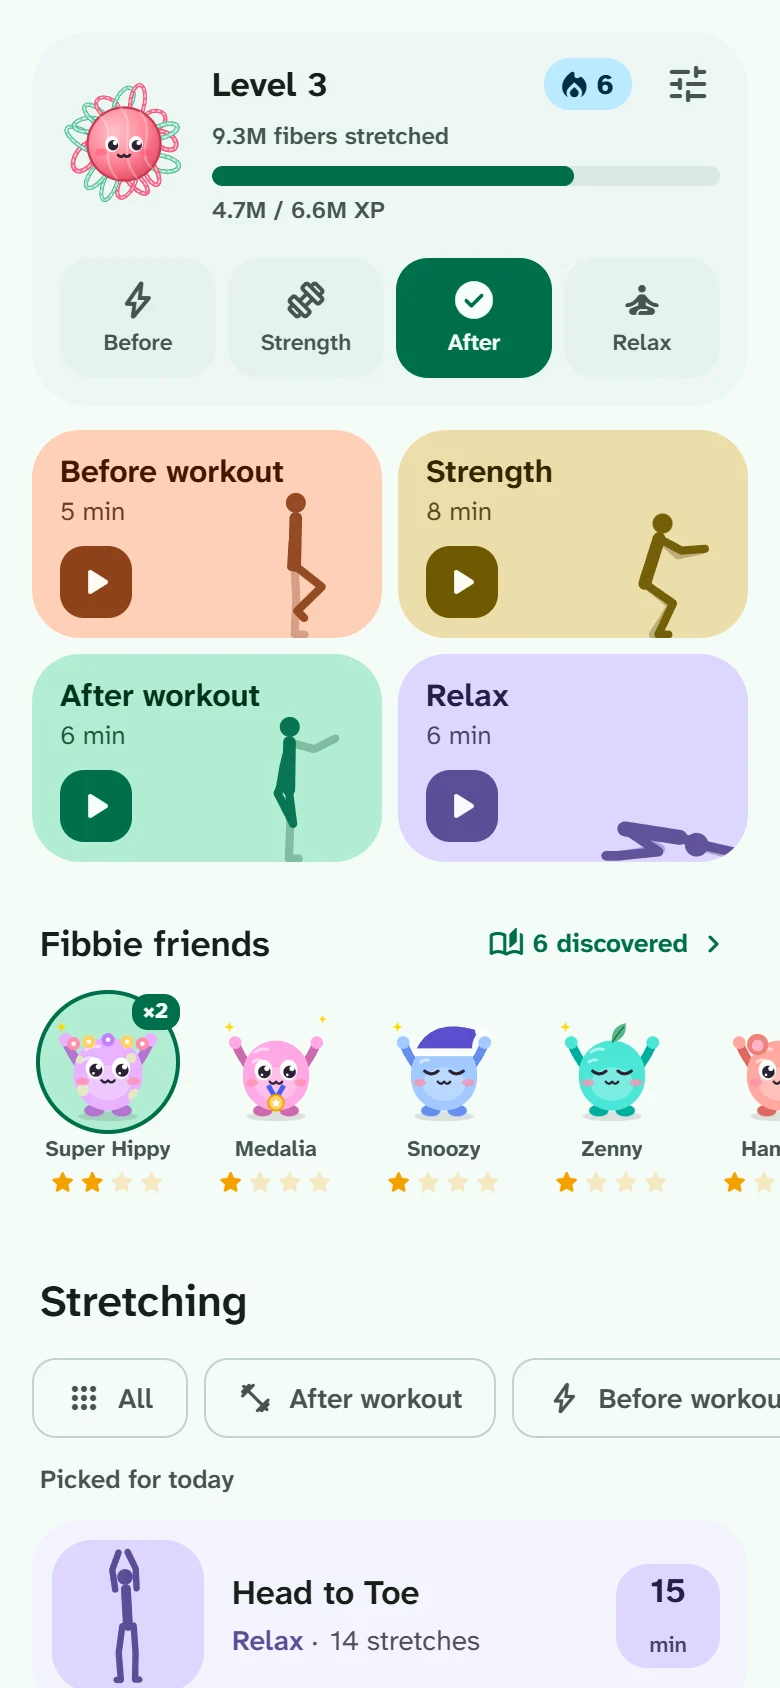
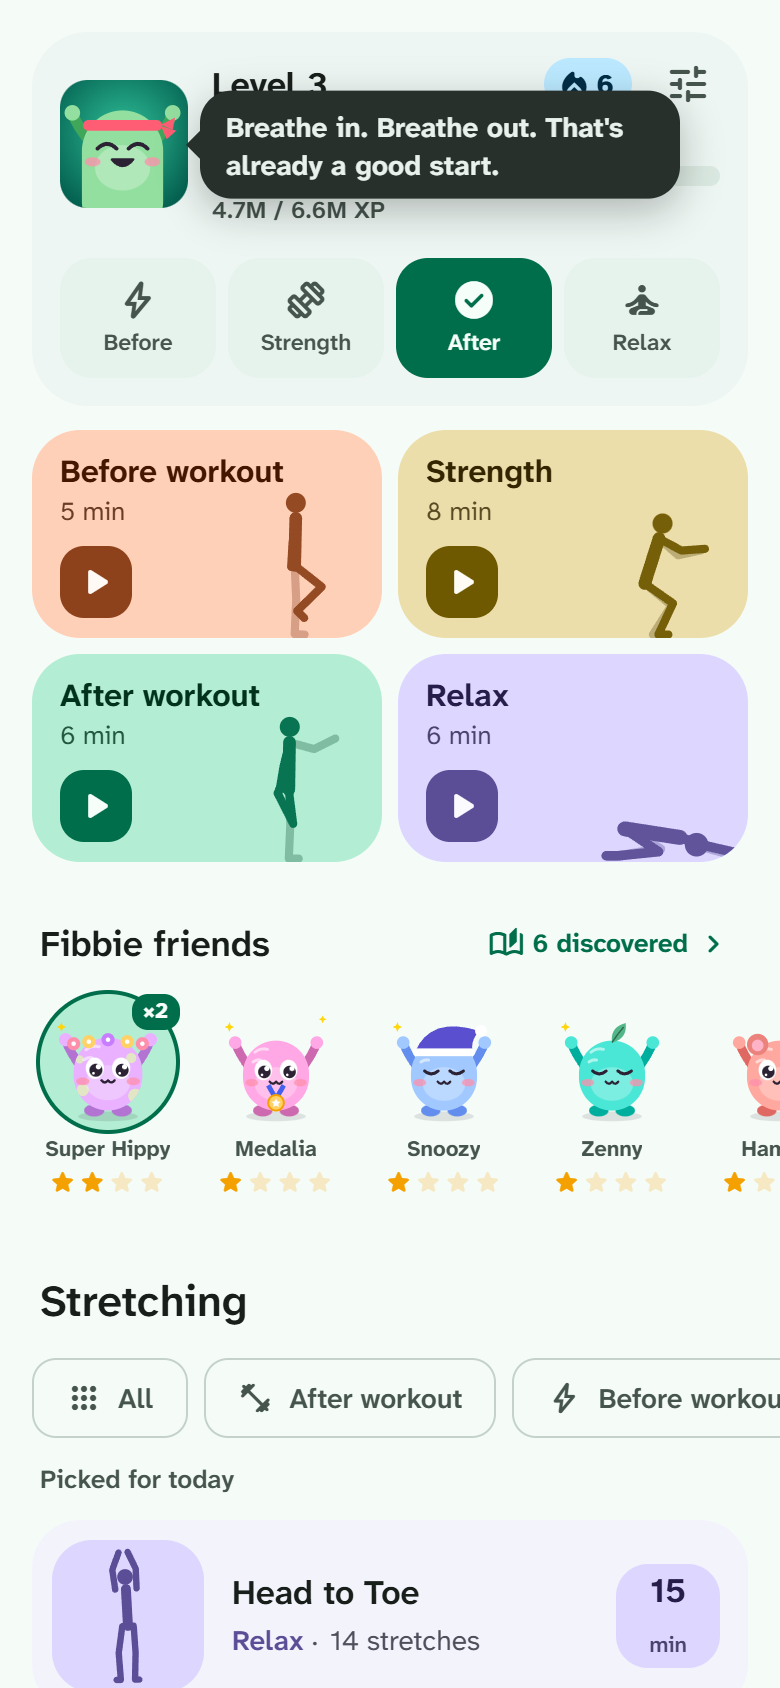
Refresh Fibbies GitHub screenshots and copy

diff --git a/README.md b/README.md
@@ -6,11 +6,11 @@
 
 **Stretch a little. Build a little strength.**
 
-Follow short guided routines to warm up, wind down, or build strength. Keep a streak and find Fibbies in daily chests.
+Follow short guided routines to warm up, stretch, or build strength. Open chests, collect little Fibbies, and come back to a fresh thought from the Fibbie on your home screen.
 
 **[Try Fibbies in your browser](https://fibbies.juringari.com/)** · [Android APK](https://github.com/slovenec88/fibbies/releases/latest) · [Project page](https://juringari.com/fibbies/)
 
-<img src="docs/screenshots/home.png" width="210" alt="Fibbies home screen with four quick starts, a streak, and six Fibbies discovered">
+<img src="docs/screenshots/home.png" width="210" alt="The green Fibbie mascot shares a welcome quote above the quick-start routines">
 <img src="docs/screenshots/stretch.png" width="210" alt="Top 5 Strength session showing an animated bodyweight squat and a countdown">
 
 </div>
@@ -19,15 +19,15 @@ Follow short guided routines to warm up, wind down, or build strength. Keep a st
 
 ### Meet the routines
 
-Start with one of today’s picks or browse stretching and bodyweight strength routines. Try the 2-Minute Reset at your desk, warm up before a run, or try a strength routine for your feet and arches. Tap a move inside any routine for an animated preview and a short guide.
+Take a 2-Minute Reset at your desk, warm up before a run, or try a strength routine for your feet and arches. Tap any exercise in a routine to see how it moves and read a short guide in your language before you start.
 
 ### Follow the stretch
 
-An animated figure shows each move and a timer keeps you on pace. Spoken cues tell you when to start, switch sides, or move on. You can pause or skip ahead, and **Session length** in Settings adjusts both stretches and strength exercises.
+[An animated figure](docs/screenshots/guided-session.png) shows each move and a timer keeps you on pace. Spoken cues tell you when to start, switch sides, or move on. You can pause or skip ahead, and **Session length** in Settings adjusts both stretches and strength exercises.
 
 <div align="center">
-<img src="docs/screenshots/routine.png" width="200" alt="Happy Feet routine with the exercise list and durations">
-<img src="docs/screenshots/guided-session.png" width="200" alt="Guided standing quad stretch with a countdown and playback controls">
+<img src="docs/screenshots/routine.png" width="200" alt="Top 5 Strength routine with the exercise list and durations">
+<img src="docs/screenshots/exercise-preview.png" width="200" alt="Arm Circles preview with an illustrated figure and a short guide">
 </div>
 
 ### Open a chest
@@ -45,7 +45,7 @@ Find original Fibbies and wild ones with different shapes, colors, and faces. Th
 
 ## Make it yours
 
-- Tap the little Fibbie next to your XP for a stretch and a kind thought. It also has a new thought for you when you open the app.
+- The Fibbie beside your XP blinks, waves, and stretches. Tap it to hear a soft sound and see a kind thought in your language.
 - Build a streak, level up, and track changes with the [weekly flexibility check](docs/screenshots/flexibility.png).
 - Install Fibbies from your browser for offline use, or download the signed Android APK from GitHub Releases.
 - Use the app and spoken guidance in English, German, Spanish, French, Italian, Portuguese, or Slovenian.
